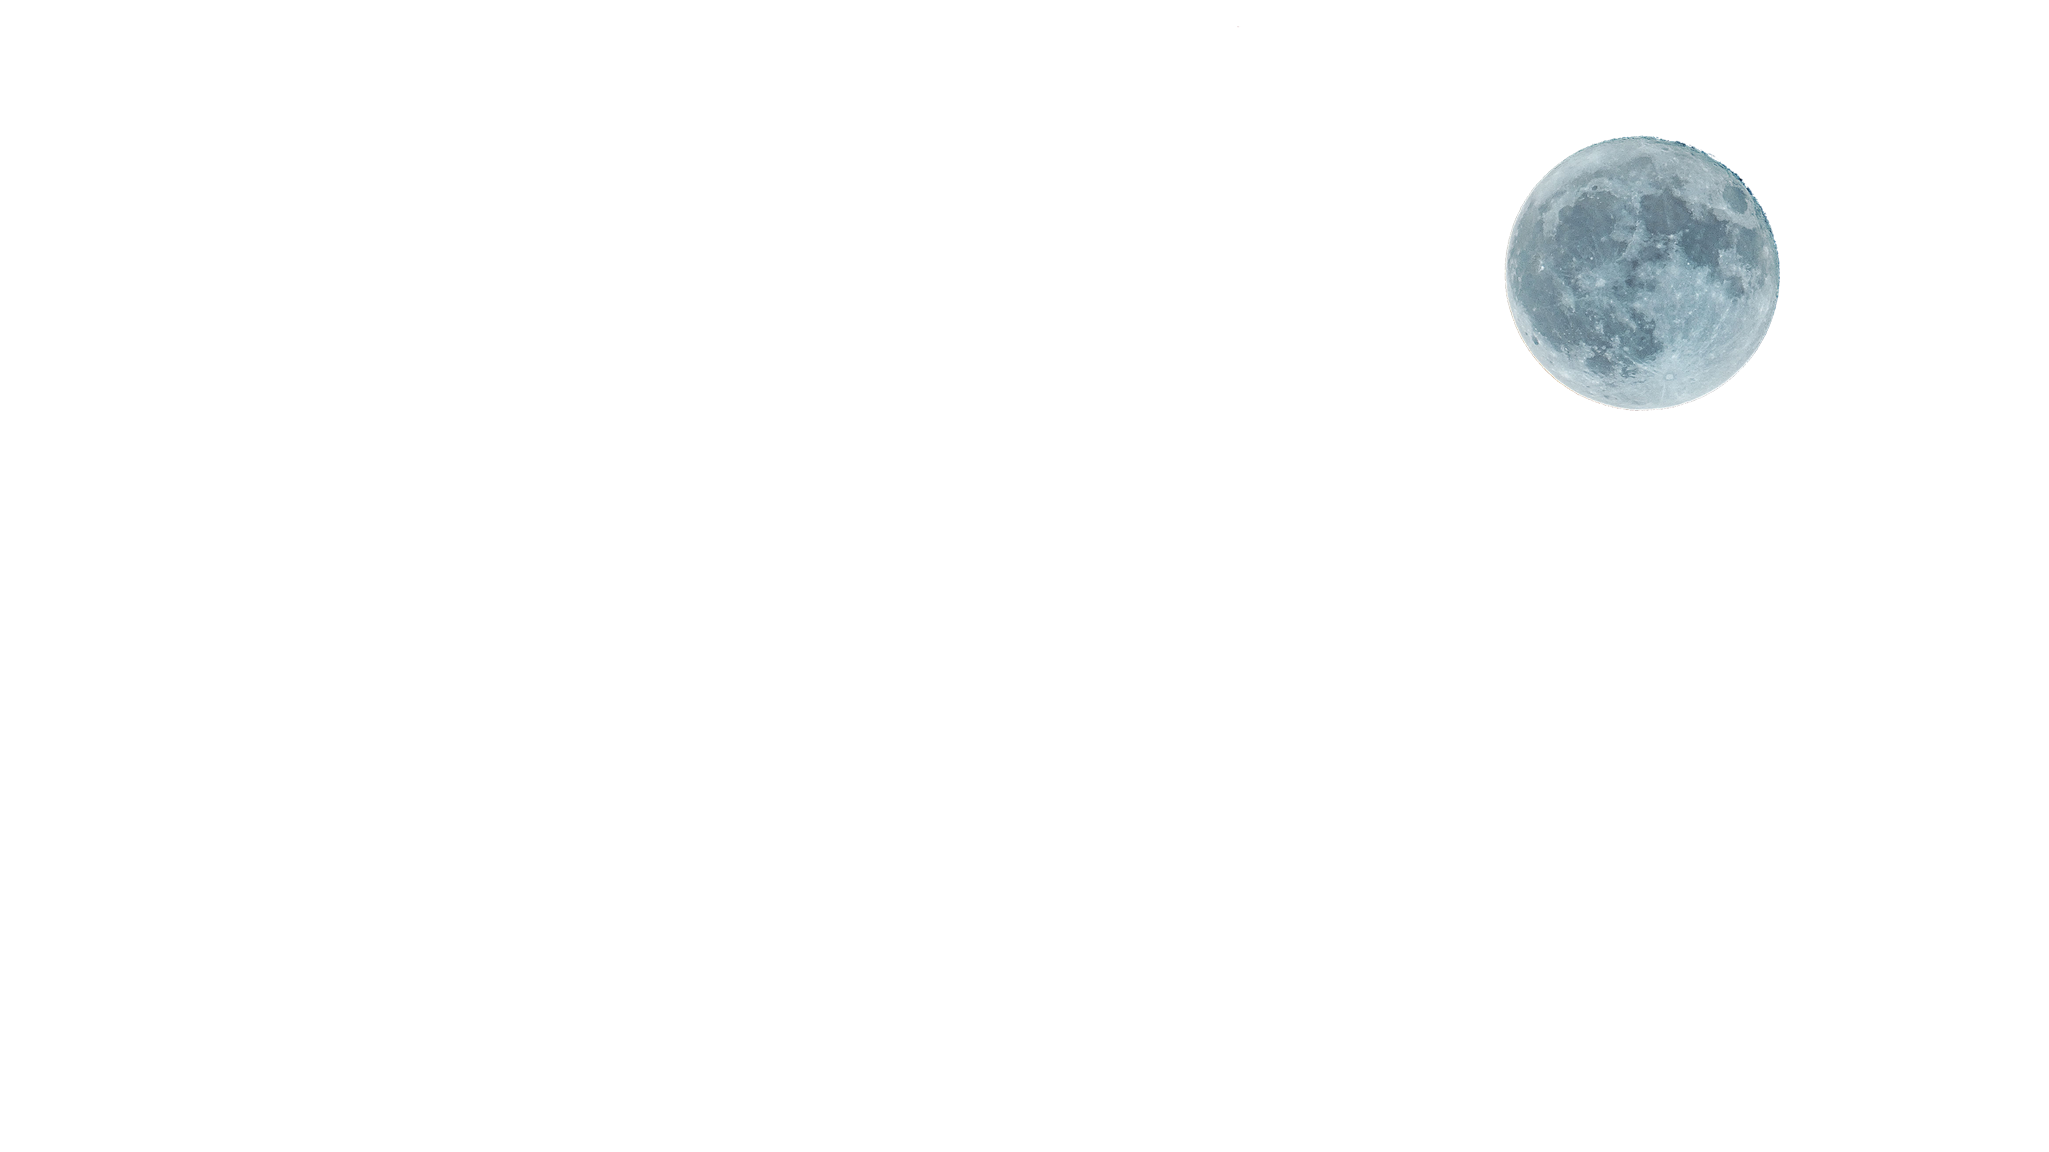
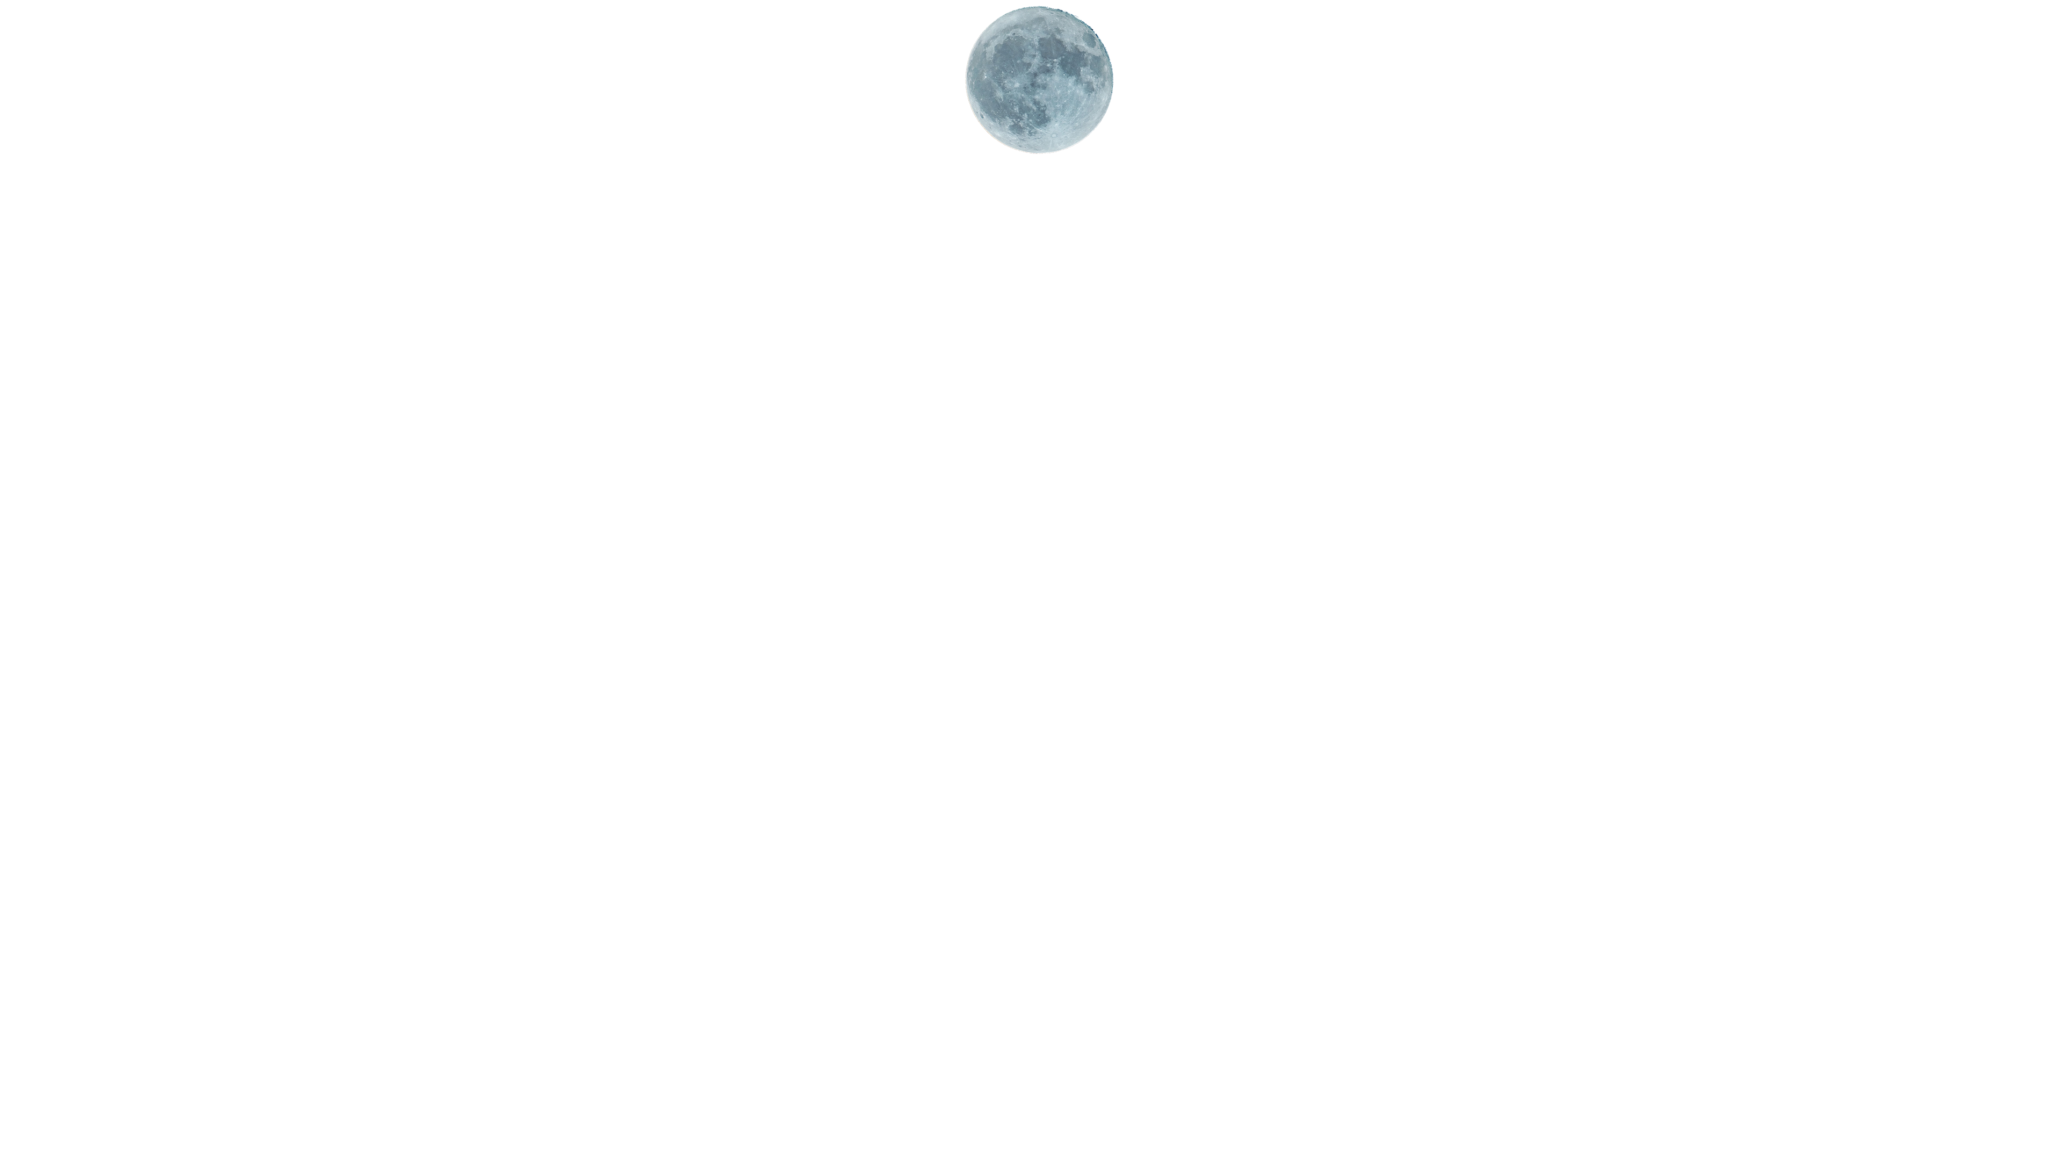
mengatur responsif

Changed region(s): [[0.7184, 0.0938, 0.8746, 0.375], [0.4685, 0.0, 0.5622, 0.1562]]

diff --git a/main.js b/main.js
@@ -163,22 +163,36 @@ let text = document.getElementById("text");
 let bg = document.getElementById("bg");
 let mountain = document.getElementById("mountain");
 let moon = document.getElementById("moon");
+let moon1 = document.getElementById("moon1");
 let road = document.getElementById("road");
 
 window.addEventListener("scroll", function () {
   let value = window.scrollY;
-  let speedFactor = 1; // Kecepatan default
+  // Kecepatan Default
+  let speedMountain = 1;
+  let speedFactor = 1;
   let speedText = 1;
+  let speedText2 = 0;
+  let speedBg = 1;
+
+  // Atur kecepatan lebih lambat untuk layar ponsel
   if (window.innerWidth <= 768) {
-    speedText = 0.27;
-    speedFactor = 1.2; // Atur kecepatan lebih lambat untuk layar ponsel
+    speedText = 0.1;
+    speedText2 = -40;
+    speedMountain = 1;
+    speedFactor = 1.2;
+    speedBg = -2.2;
   }
 
-  bg.style.top = 200 + value * 0.1 * speedFactor + "px";
+  bg.style.top = 200 + value * 0.1 * speedFactor * speedBg + "px";
   moon.style.left = 1150 + value * -0.5 * speedFactor + "px";
-  mountain.style.top = 770 + value * -0.7 * speedFactor + "px";
-  road.style.top = 500 + value * -0.3 * speedFactor + "px";
-  text.style.top = -180 + value * 0.1 * speedFactor * speedText + "px";
+  moon1.style.top = 250 + value * 0.3 + "px";
+  moon1.style.left = -100 + value * 0.6 + "px";
+
+  mountain.style.top = 770 + value * -0.7 * speedFactor * speedMountain + "px";
+  road.style.top = 500 + value * -0.4 * speedFactor + "px";
+  text.style.top =
+    speedText2 + -160 + value * 0.04 * speedFactor * speedText + "px";
 });
 
 // show % hidden element

diff --git a/index.html b/index.html
@@ -23,7 +23,8 @@
     <section class="parallax">
       <div class="parallax-container">
         <img src="images/bg.png" id="bg" />
-        <img src="images/moon1.png" id="moon" />
+        <img src="images/moon.png" id="moon" class="moonX" />
+        <img src="images/moon1.png" id="moon1" class="moonY" />
         <img src="images/mountain.png" id="mountain" />
         <img src="images/road.png" id="road" />
         <h2 class="hidden" id="text">Happy 21st birthday</h2>
@@ -33,7 +34,6 @@
 
     <!-- Footer -->
     <div class="bodyy">
-      \
       <div class="sec hidden">
         <h2>Happy 21st birthday!</h2>
         <p>

diff --git a/style.css b/style.css
@@ -146,6 +146,13 @@ section img {
   user-select: none;
 }
 
+.moonY {
+  opacity: 0;
+}
+
+.moonX {
+  opacity: 1;
+}
 /* Tablet dan perangkat seluler */
 @media only screen and (max-width: 768px) {
   section {
@@ -178,6 +185,14 @@ section img {
     color: #fff;
     font-size: 0.7em;
     font-weight: 500;
+  }
+
+  .moonY {
+    opacity: 1;
+  }
+
+  .moonX {
+    opacity: 0;
   }
 }
 /* Parallax End */
